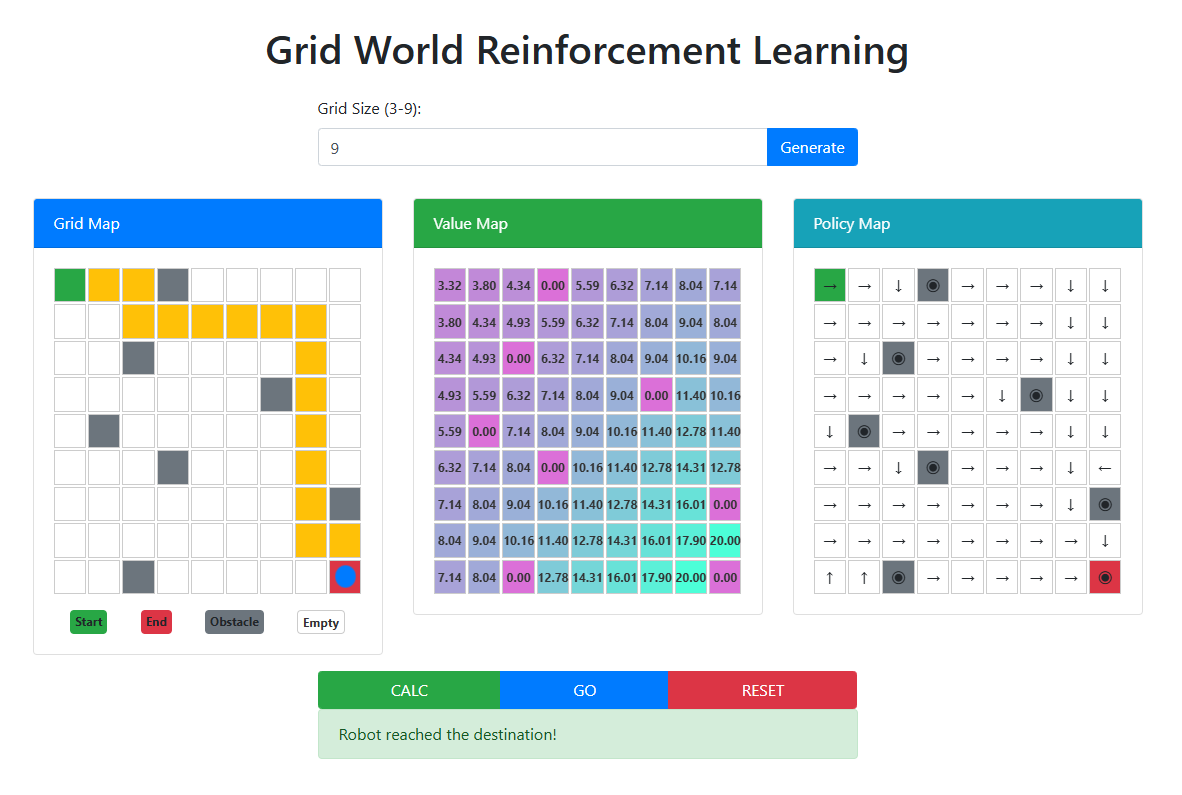
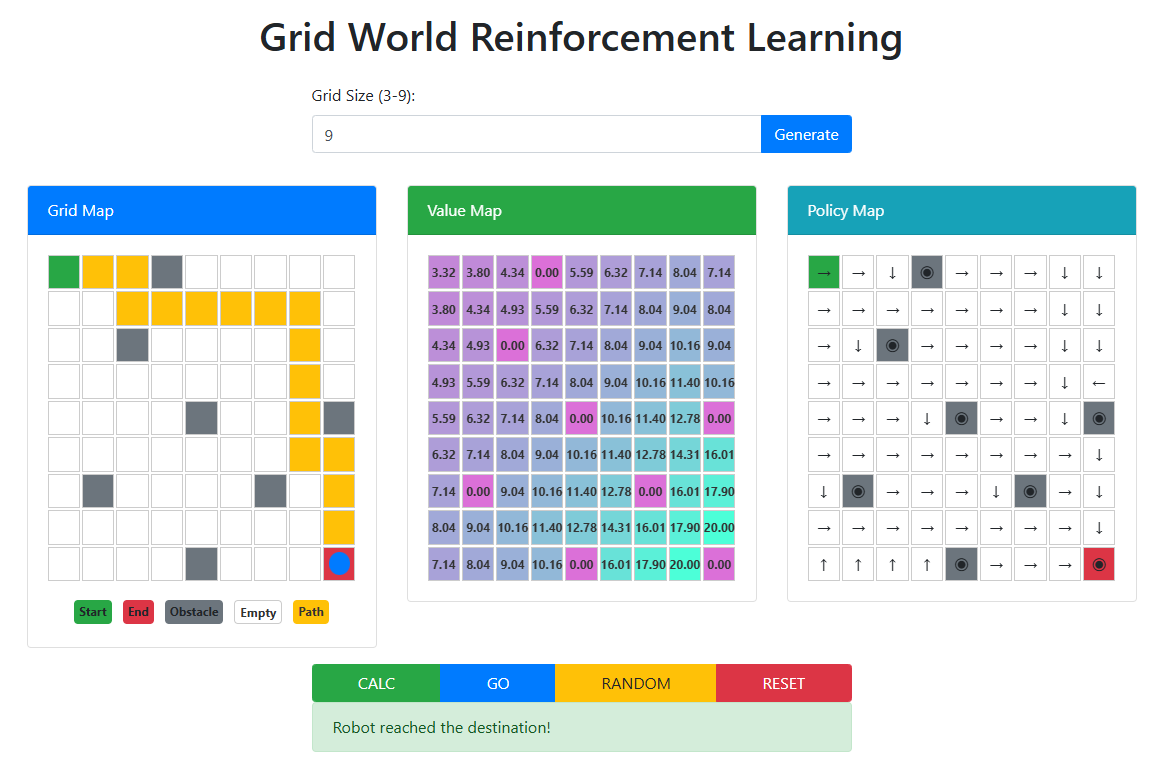
feat(drl hw1): add random grid generation feature and update documentation

Changed region(s): [[0.0, 0.0312, 0.994, 0.8104], [0.2485, 0.8416, 0.7455, 0.9974]]

diff --git a/2025-spring/drl/hw1/static/js/script.js b/2025-spring/drl/hw1/static/js/script.js
@@ -22,12 +22,14 @@ document.addEventListener('DOMContentLoaded', function() {
     const goBtn = document.getElementById('goBtn');
     const resetBtn = document.getElementById('resetBtn');
     const messageBox = document.getElementById('messageBox');
+    const randomBtn = document.getElementById('randomBtn');
     
     // Initialize app
     generateBtn.addEventListener('click', generateGrid);
     calcBtn.addEventListener('click', calculateOptimalPolicy);
     goBtn.addEventListener('click', startRobotAnimation);
     resetBtn.addEventListener('click', resetGrid);
+    randomBtn.addEventListener('click', generateRandomGrid);
     
     // Generate initial grid
     generateGrid();
@@ -366,5 +368,66 @@ document.addEventListener('DOMContentLoaded', function() {
         messageBox.textContent = message;
         messageBox.className = `alert alert-${type}`;
         messageBox.style.display = 'block';
+    }
+    
+    // Function to generate random grid configuration
+    function generateRandomGrid() {
+        // Reset the grid first
+        resetGrid();
+        
+        // Generate a unique random position for start, end and obstacles
+        const positions = [];
+        
+        // Calculate total cells
+        const totalCells = gridSize * gridSize;
+        
+        // Determine number of obstacles (gridSize - 2)
+        const obstacleNum = gridSize - 2;
+        
+        // Generate unique random positions for start, end, and obstacles
+        while (positions.length < obstacleNum + 2) { // +2 for start and end positions
+            const randomPos = Math.floor(Math.random() * totalCells);
+            const row = Math.floor(randomPos / gridSize);
+            const col = randomPos % gridSize;
+            
+            // Check if position is already used
+            if (!positions.includes(`${row}-${col}`)) {
+                positions.push(`${row}-${col}`);
+            }
+        }
+        
+        // Set start position
+        const startPos = positions[0].split('-');
+        const startRow = parseInt(startPos[0]);
+        const startCol = parseInt(startPos[1]);
+        gridData[startRow][startCol] = 'start';
+        const startCell = gridContainer.querySelector(`[data-row="${startRow}"][data-col="${startCol}"]`);
+        startCell.classList.add('start');
+        startSet = true;
+        
+        // Set end position
+        const endPos = positions[1].split('-');
+        const endRow = parseInt(endPos[0]);
+        const endCol = parseInt(endPos[1]);
+        gridData[endRow][endCol] = 'end';
+        const endCell = gridContainer.querySelector(`[data-row="${endRow}"][data-col="${endCol}"]`);
+        endCell.classList.add('end');
+        endSet = true;
+        
+        // Set obstacles
+        for (let i = 2; i < positions.length; i++) {
+            const obsPos = positions[i].split('-');
+            const obsRow = parseInt(obsPos[0]);
+            const obsCol = parseInt(obsPos[1]);
+            gridData[obsRow][obsCol] = 'obstacle';
+            const obsCell = gridContainer.querySelector(`[data-row="${obsRow}"][data-col="${obsCol}"]`);
+            obsCell.classList.add('obstacle');
+            obstacleCount++;
+        }
+        
+        showMessage('Random grid generated. Calculating optimal policy...', 'info');
+        
+        // Automatically calculate the optimal policy after generating the random grid
+        setTimeout(calculateOptimalPolicy, 100); // Small delay to allow UI update
     }
 });

diff --git a/2025-spring/drl/hw1/templates/index.html b/2025-spring/drl/hw1/templates/index.html
@@ -70,6 +70,7 @@
                 <div class="btn-group d-flex">
                     <button class="btn btn-success flex-fill" id="calcBtn">CALC</button>
                     <button class="btn btn-primary flex-fill" id="goBtn" disabled>GO</button>
+                    <button class="btn btn-warning flex-fill" id="randomBtn">RANDOM</button>
                     <button class="btn btn-danger flex-fill" id="resetBtn">RESET</button>
                 </div>
                 <div class="alert alert-info" id="messageBox" style="display: none;"></div>
@@ -84,7 +85,7 @@
                     </div>
                     <div class="card-body">
                         <ol>
-                            <li>Enter a grid size (3-9) and click Generate.</li>
+                            <li>Enter a grid size (3-9) and click Generate (HW1-1).</li>
                             <li>Click on cells to set:
                                 <ul>
                                     <li>First click: Start position (green)</li>
@@ -94,6 +95,7 @@
                             </li>
                             <li>Click CALC to calculate the optimal policy.</li>
                             <li>Click GO to watch the robot follow the optimal path.</li>
+                            <li>Click RANDOM to generate a random grid and calculate the optimal policy.</li>
                             <li>Click RESET to clear the grid and start over.</li>
                         </ol>
                     </div>

diff --git a/2025-spring/drl/hw1/PROMPT.md b/2025-spring/drl/hw1/PROMPT.md
@@ -27,11 +27,13 @@ Feature Requirements:
 5. Result Display
 
    - Button: CALC
-     - Upon clicking, calculate the optimal path.
+     - When clicked, calculate the optimal path.
    - Button: GO
-     - Upon clicking, the robot moves from the starting point to the endpoint according to the optimal policy and displays the movement process (with optional animations).
+     - When clicked, the robot moves from the starting point to the endpoint according to the optimal policy and displays the movement process (with optional animations).
+   - Button: Random
+      - When clicked, the robot moves from the starting point to the endpoint according to a random policy and displays the movement process (with optional animations).
    - Button: RESET
-     - Upon clicking, the map resets to its initial state, allowing users to reselect the starting point, endpoint, and obstacles.
+     - When clicked, the map resets to its initial state, allowing users to reselect the starting point, endpoint, and obstacles.
      - If pressed during the GO process, the robot immediately stops moving and is removed, and the map returns to its initial state.
 
 6. Result Visualization

diff --git a/2025-spring/drl/hw1/README.md b/2025-spring/drl/hw1/README.md
@@ -87,7 +87,9 @@ The server is running on http://127.0.0.1:5000.
 
 3. Click "CALC" to calculate optimal policy
 4. Click "GO" to watch the robot follow the optimal path
-5. Click "RESET" to start over
+5. Click "Random" to generate a random grid and calculate the path
+   - It can be regarded as `HW1-2`.
+6. Click "RESET" to start over
 
 ## Additional Notes
 
